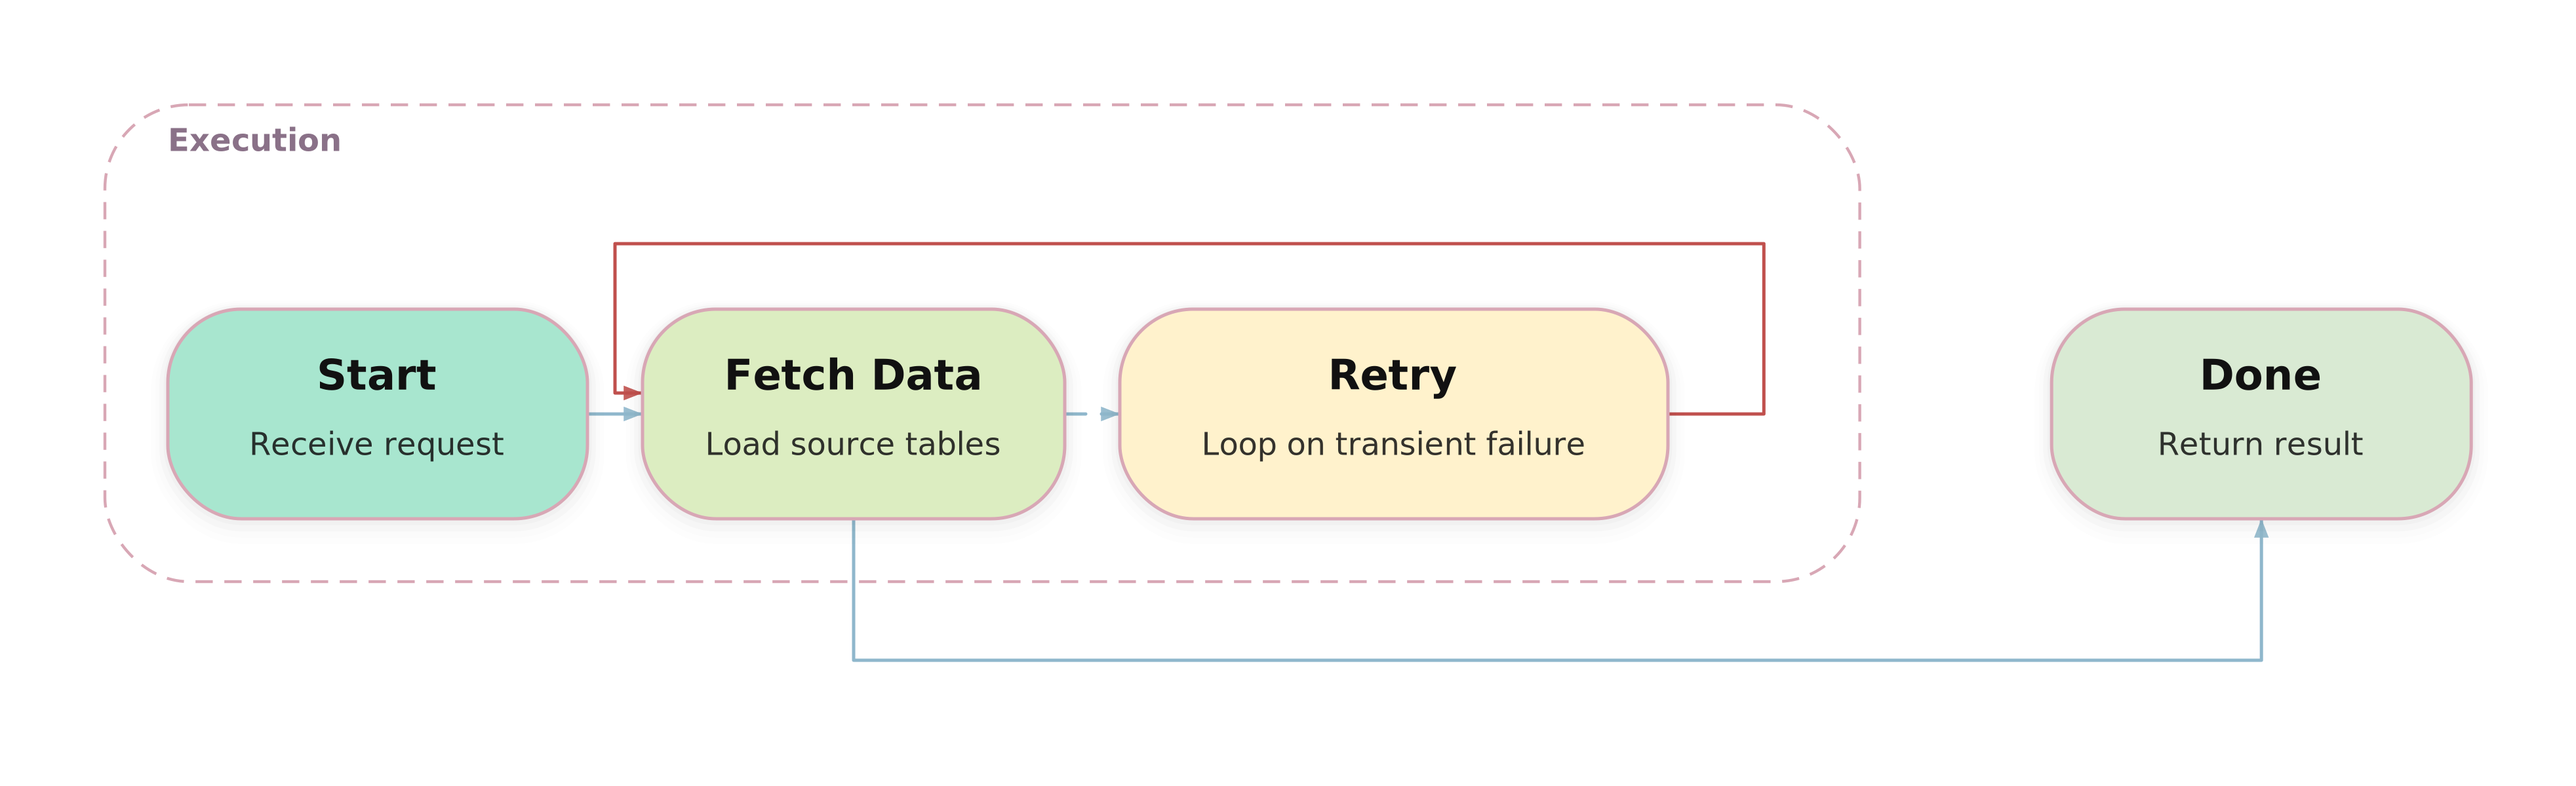
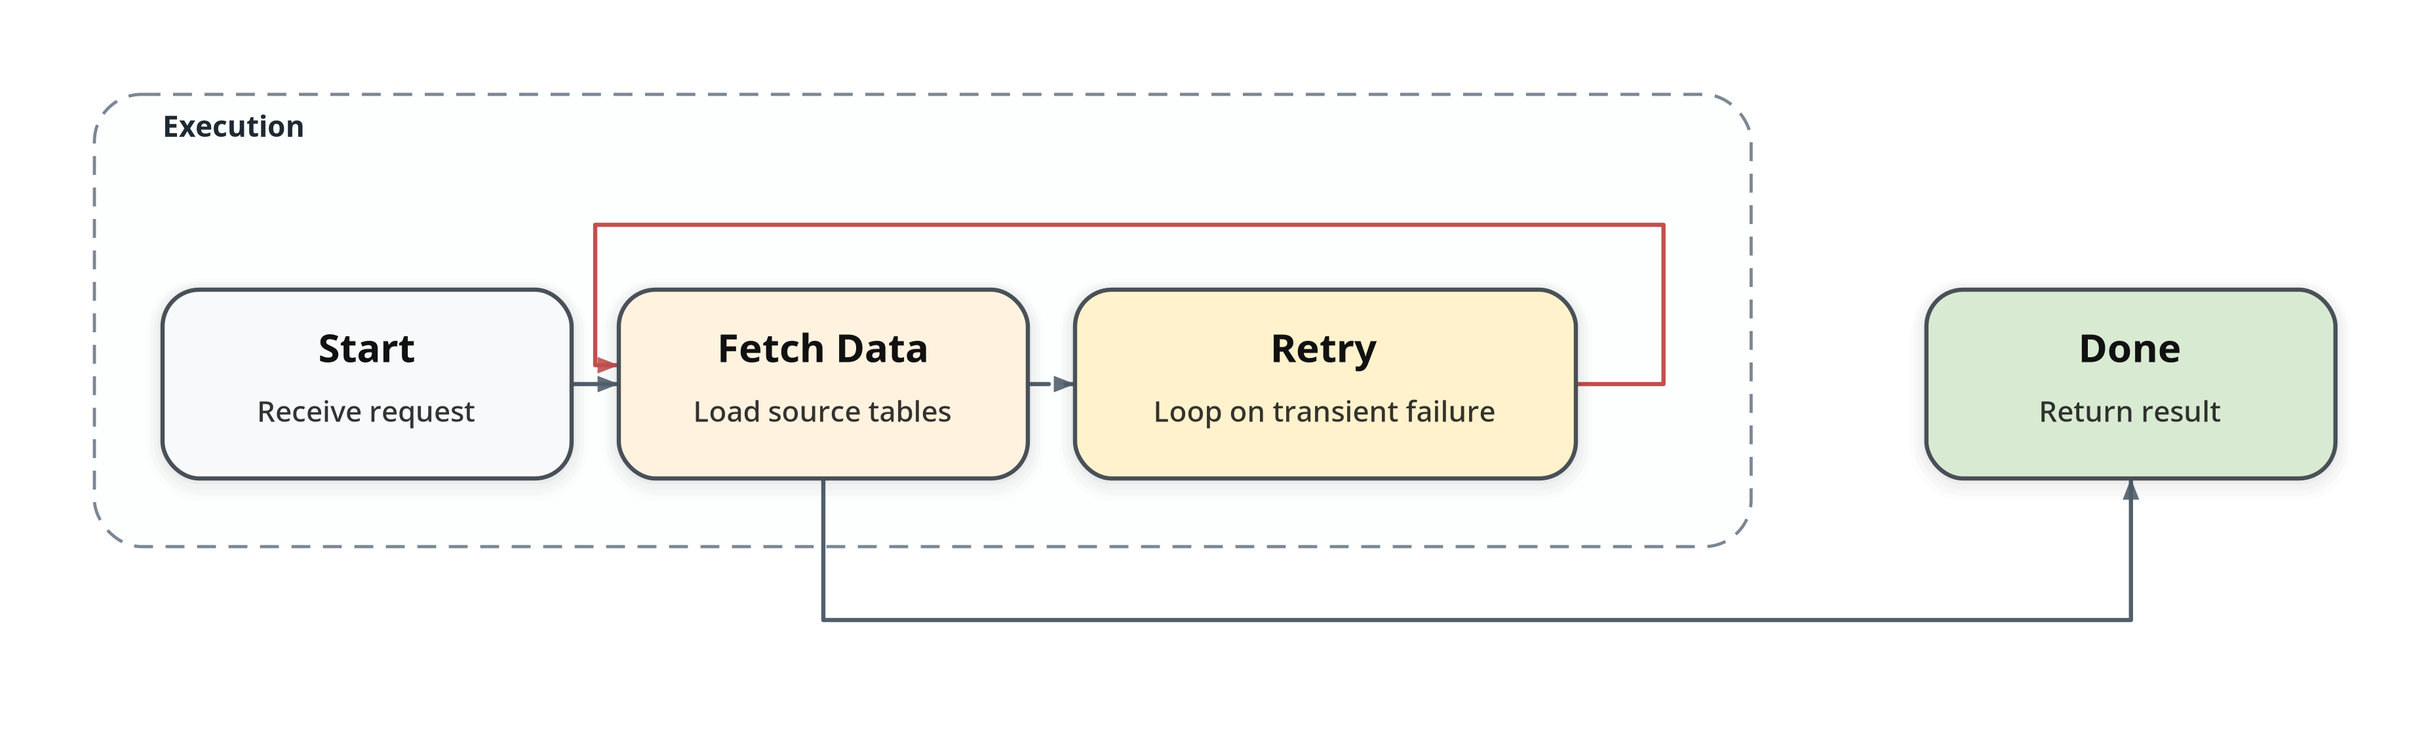
Add research theme and release v0.5.3

diff --git a/tests/test_rendering.py b/tests/test_rendering.py
@@ -25,8 +25,155 @@ SVG_NS = {"svg": "http://www.w3.org/2000/svg"}
 
 
 def _build_generate_pipeline_fixture() -> Pipeline:
-    namespace = runpy.run_path(str(Path(__file__).resolve().parents[1] / "test" / "generate_pipeline.py"))
-    return namespace["build_pipeline"]()
+    input_fill = "#F8F9FA"
+    input_stroke = "#495057"
+    split_fill = "#FFF3E0"
+    split_stroke = "#FB8C00"
+    h_fill = "#E8F5E9"
+    h_stroke = "#43A047"
+    c_fill = "#E3F2FD"
+    c_stroke = "#1E88E5"
+    m_fill = "#FCE4EC"
+    m_stroke = "#E53935"
+    fusion_fill = "#FAF6F0"
+    fusion_stroke = "#8A7A5C"
+    output_fill = "#F6F8FB"
+    output_stroke = "#263238"
+
+    theme = Theme.research()
+
+    return Pipeline(
+        nodes=(
+            Node("sar_input", "SAR Input", fill=input_fill, stroke=input_stroke),
+            Node("cloudy_hsi", "Cloudy HSI Input", fill=input_fill, stroke=input_stroke),
+            Node("sar_stem", "SAR ConvStem", fill=input_fill, stroke=input_stroke),
+            Node("hsi_stem", "Cloudy HSI ConvStem", fill=input_fill, stroke=input_stroke),
+            Node("feature_split", "Feature Split", "z0 -> c0 / m0", fill=split_fill, stroke=split_stroke),
+            Node("h_feature", "h Feature", "from HSI stem", fill=h_fill, stroke=h_stroke),
+            Node(
+                "main_blocks",
+                "Main Processing",
+                "N repeated dual-stream blocks",
+                fill="#F8FAFC",
+                stroke="#5C6773",
+                width=250.0,
+            ),
+            Node("candidate_decoder", "Candidate Decoder", "candidate", fill=c_fill, stroke=c_stroke),
+            Node("mask_decoder", "Mask Decoder", "mask", fill=m_fill, stroke=m_stroke),
+            Node(
+                "fusion",
+                "Fusion",
+                "out = (1 - m) * cloudy + m * candidate",
+                fill=fusion_fill,
+                stroke=fusion_stroke,
+                width=330.0,
+            ),
+            Node("output", "Cloud-free Output", fill=output_fill, stroke=output_stroke),
+        ),
+        edges=(
+            Edge("sar_to_stem", "sar_input", "sar_stem", color=input_stroke),
+            Edge("hsi_to_stem", "cloudy_hsi", "hsi_stem", color=input_stroke),
+            Edge("stem_to_split", "sar_stem", "feature_split", color=split_stroke),
+            Edge("stem_to_h", "hsi_stem", "h_feature", color=h_stroke),
+            Edge("split_to_main_c", "feature_split", "main_blocks", color=c_stroke),
+            Edge("split_to_main_m", "feature_split", "main_blocks", color=m_stroke, dashed=True),
+            Edge("h_to_main", "h_feature", "main_blocks", color=h_stroke, dashed=True),
+            Edge("main_to_candidate", "main_blocks", "candidate_decoder", color=c_stroke),
+            Edge("main_to_mask", "main_blocks", "mask_decoder", color=m_stroke),
+            Edge("candidate_to_fusion", "candidate_decoder", "fusion", color=c_stroke),
+            Edge("mask_to_fusion", "mask_decoder", "fusion", color=m_stroke),
+            Edge("skip_to_fusion", "cloudy_hsi", "fusion", color=fusion_stroke, dashed=True),
+            Edge("fusion_to_output", "fusion", "output", color=fusion_stroke),
+        ),
+        groups=(
+            Group(
+                "feature_stage",
+                "Input and Feature Extraction",
+                (
+                    "sar_input",
+                    "cloudy_hsi",
+                    "sar_stem",
+                    "hsi_stem",
+                    "feature_split",
+                    "h_feature",
+                ),
+                stroke=input_stroke,
+                fill="#F4F6F8",
+            ),
+            Group(
+                "candidate_stream",
+                "Candidate Branch",
+                ("candidate_decoder",),
+                stroke=c_stroke,
+                fill=c_fill,
+            ),
+            Group(
+                "mask_stream",
+                "Mask Branch",
+                ("mask_decoder",),
+                stroke=m_stroke,
+                fill=m_fill,
+            ),
+            Group(
+                "decoders",
+                "Independent Decoders",
+                ("candidate_decoder", "mask_decoder"),
+                stroke="#6C757D",
+                fill="#F8F9FA",
+            ),
+        ),
+        detail_panel=DetailPanel(
+            id="main_blocks_panel",
+            focus_node_id="main_blocks",
+            label="Main Processing: N Blocks",
+            nodes=(
+                Node("panel_h", "h Feature", "shared HSI guidance", fill=h_fill, stroke=h_stroke),
+                Node("panel_c_in", "c_k", "candidate stream input", fill=c_fill, stroke=c_stroke),
+                Node("panel_m_in", "m_k", "mask stream input", fill=m_fill, stroke=m_stroke),
+                Node("panel_nca_c", "NCA", "c with h", fill=c_fill, stroke=c_stroke),
+                Node("panel_nca_m", "NCA", "m with h", fill=m_fill, stroke=m_stroke),
+                Node("panel_l_ffn_c", "L-FFN", "local FFN", fill=c_fill, stroke=c_stroke),
+                Node("panel_l_ffn_m", "L-FFN", "local FFN", fill=m_fill, stroke=m_stroke),
+                Node("panel_gsa_c", "GSA", "c self-attention", fill=c_fill, stroke=c_stroke),
+                Node("panel_gsa_m", "GSA", "m self-attention", fill=m_fill, stroke=m_stroke),
+                Node("panel_g_ffn_c", "G-FFN", "global FFN", fill=c_fill, stroke=c_stroke),
+                Node("panel_g_ffn_m", "G-FFN", "global FFN", fill=m_fill, stroke=m_stroke),
+                Node("panel_c_out", "c_(k+1)", "to Candidate Decoder", fill=c_fill, stroke=c_stroke),
+                Node("panel_m_out", "m_(k+1)", "to Mask Decoder", fill=m_fill, stroke=m_stroke),
+            ),
+            edges=(
+                Edge("panel_c_to_nca", "panel_c_in", "panel_nca_c", color=c_stroke),
+                Edge("panel_m_to_nca", "panel_m_in", "panel_nca_m", color=m_stroke),
+                Edge("panel_h_to_nca_c", "panel_h", "panel_nca_c", color=h_stroke, dashed=True),
+                Edge("panel_h_to_nca_m", "panel_h", "panel_nca_m", color=h_stroke, dashed=True),
+                Edge("panel_nca_c_to_lffn", "panel_nca_c", "panel_l_ffn_c", color=c_stroke),
+                Edge("panel_nca_m_to_lffn", "panel_nca_m", "panel_l_ffn_m", color=m_stroke),
+                Edge("panel_lffn_c_to_gsa", "panel_l_ffn_c", "panel_gsa_c", color=c_stroke),
+                Edge("panel_lffn_m_to_gsa", "panel_l_ffn_m", "panel_gsa_m", color=m_stroke),
+                Edge("panel_gsa_c_to_gffn", "panel_gsa_c", "panel_g_ffn_c", color=c_stroke),
+                Edge("panel_gsa_m_to_gffn", "panel_gsa_m", "panel_g_ffn_m", color=m_stroke),
+                Edge("panel_gffn_c_to_out", "panel_g_ffn_c", "panel_c_out", color=c_stroke),
+                Edge("panel_gffn_m_to_out", "panel_g_ffn_m", "panel_m_out", color=m_stroke),
+            ),
+            groups=(
+                Group(
+                    "panel_candidate_stream",
+                    "Candidate (c) Stream",
+                    ("panel_c_in", "panel_nca_c", "panel_l_ffn_c", "panel_gsa_c", "panel_g_ffn_c", "panel_c_out"),
+                    stroke=c_stroke,
+                    fill=c_fill,
+                ),
+                Group(
+                    "panel_mask_stream",
+                    "Mask (m) Stream",
+                    ("panel_m_in", "panel_nca_m", "panel_l_ffn_m", "panel_gsa_m", "panel_g_ffn_m", "panel_m_out"),
+                    stroke=m_stroke,
+                    fill=m_fill,
+                ),
+            ),
+        ),
+        theme=theme,
+    )
 
 
 def _make_layout_node(
@@ -373,7 +520,7 @@ def test_svg_contains_expected_visual_elements() -> None:
 
 
 def test_built_in_themes_render_with_white_canvas_background() -> None:
-    for theme_factory in (Theme.soft_retro, Theme.retro, Theme.pastel, Theme.dark, Theme.cyberpunk, Theme.monochrome):
+    for theme_factory in (Theme.soft_retro, Theme.retro, Theme.research, Theme.dark, Theme.cyberpunk, Theme.monochrome):
         pipeline = Pipeline(nodes=[Node("n1", "Node")], edges=[], theme=theme_factory())
         root = ET.fromstring(pipeline.to_svg())
         background = root.find("./svg:rect", SVG_NS)
@@ -383,7 +530,7 @@ def test_built_in_themes_render_with_white_canvas_background() -> None:
 
 
 def test_theme_registry_exposes_named_theme_factories() -> None:
-    assert tuple(Theme.themes) == ("soft_retro", "retro", "pastel", "dark", "cyberpunk", "monochrome")
+    assert tuple(Theme.themes) == ("soft_retro", "retro", "research", "dark", "cyberpunk", "monochrome")
 
     first = Theme.themes.soft_retro()
     second = Theme.themes.soft_retro()
@@ -397,21 +544,24 @@ def test_theme_registry_exposes_named_theme_factories() -> None:
 
 
 def test_all_built_in_themes_render_group_strokes() -> None:
-    for theme_factory in (Theme.soft_retro, Theme.retro, Theme.pastel, Theme.dark, Theme.cyberpunk, Theme.monochrome):
+    for theme_factory in (Theme.soft_retro, Theme.retro, Theme.research, Theme.dark, Theme.cyberpunk, Theme.monochrome):
         assert theme_factory().group_stroke != "none"
 
 
 def test_only_retro_uses_group_accent_line() -> None:
     assert Theme.retro().show_group_accent_line is True
 
-    for theme_factory in (Theme.soft_retro, Theme.pastel, Theme.dark, Theme.cyberpunk, Theme.monochrome):
+    for theme_factory in (Theme.soft_retro, Theme.research, Theme.dark, Theme.cyberpunk, Theme.monochrome):
         assert theme_factory().show_group_accent_line is False
 
 
-def test_pastel_group_fill_defaults_to_white() -> None:
-    theme = Theme.pastel()
+def test_research_theme_matches_generate_pipeline_defaults() -> None:
+    theme = Theme.research()
 
-    assert theme.group_fill == "#FFFFFF"
+    assert theme.node_fill == "#F8F9FA"
+    assert theme.group_fill == "#EFF3F6"
+    assert theme.title_font_family == "'IBM Plex Sans', 'DejaVu Sans', sans-serif"
+    assert theme.route_track_gap == 18.0
 
 
 def test_node_text_color_auto_switches_between_dark_and_light() -> None:
@@ -437,7 +587,7 @@ def test_builtin_themes_use_automatic_node_palettes() -> None:
     base_nodes = [Node("first", "First"), Node("second", "Second")]
     base_edges = [Edge("e1", "first", "second")]
 
-    for theme_factory in (Theme.soft_retro, Theme.retro, Theme.pastel, Theme.dark, Theme.cyberpunk, Theme.monochrome):
+    for theme_factory in (Theme.soft_retro, Theme.retro, Theme.research, Theme.dark, Theme.cyberpunk, Theme.monochrome):
         theme = theme_factory()
         root = ET.fromstring(Pipeline(nodes=base_nodes, edges=base_edges, theme=theme).to_svg())
 
@@ -449,6 +599,9 @@ def test_builtin_themes_use_automatic_node_palettes() -> None:
 def test_built_in_themes_match_curated_palettes() -> None:
     assert Theme.soft_retro().color_palette == (
         "#F6C8B8", "#F8DCA8", "#CFE8C6", "#BFDCEC", "#D8C9F1",
+    )
+    assert Theme.research().color_palette == (
+        "#F8F9FA", "#FFF3E0", "#E8F5E9", "#E3F2FD", "#FCE4EC",
     )
     assert Theme.dark().color_palette == (
         "#171A26", "#2C3540", "#425059", "#657371", "#808C8B",
@@ -475,7 +628,7 @@ def test_soft_retro_preserves_retro_geometry_with_monospace_type() -> None:
 def test_non_retro_themes_have_distinct_visual_profiles() -> None:
     dark = Theme.dark()
     cyberpunk = Theme.cyberpunk()
-    pastel = Theme.pastel()
+    research = Theme.research()
     monochrome = Theme.monochrome()
 
     assert dark.corner_radius == 16.0
@@ -486,9 +639,10 @@ def test_non_retro_themes_have_distinct_visual_profiles() -> None:
     assert cyberpunk.stroke_width > dark.stroke_width
     assert "monospace" in cyberpunk.title_font_family.lower()
 
-    assert pastel.corner_radius > dark.corner_radius
-    assert pastel.group_corner_radius > pastel.corner_radius
-    assert pastel.shadow_blur > dark.shadow_blur * 0.5
+    assert research.corner_radius < dark.corner_radius
+    assert research.group_corner_radius > research.corner_radius
+    assert research.shadow_blur > 0.0
+    assert "ibm plex sans" in research.title_font_family.lower()
 
     assert monochrome.shadow_opacity == 0.0
     assert monochrome.corner_radius == 8.0

diff --git a/src/frameplot/theme.py b/src/frameplot/theme.py
@@ -63,13 +63,13 @@ class ResolvedThemeMetrics:
 class ThemeRegistry:
     soft_retro: Callable[[], "Theme"]
     retro: Callable[[], "Theme"]
-    pastel: Callable[[], "Theme"]
+    research: Callable[[], "Theme"]
     dark: Callable[[], "Theme"]
     cyberpunk: Callable[[], "Theme"]
     monochrome: Callable[[], "Theme"]
 
     def __iter__(self):
-        return iter(("soft_retro", "retro", "pastel", "dark", "cyberpunk", "monochrome"))
+        return iter(("soft_retro", "retro", "research", "dark", "cyberpunk", "monochrome"))
 
     def __getitem__(self, name: str) -> Callable[[], "Theme"]:
         return getattr(self, name)
@@ -138,7 +138,7 @@ class Theme:
 
     @classmethod
     def soft_retro(cls) -> 'Theme':
-        """A pastel-tinted retro theme with monospace lettering on a white canvas."""
+        """A soft-tinted retro theme with monospace lettering on a white canvas."""
         theme = cls.retro()
         theme.background_color = "#FFFFFF"
         theme.node_fill = "#FAF3E7"
@@ -270,37 +270,47 @@ class Theme:
         )
 
     @classmethod
-    def pastel(cls) -> 'Theme':
-        """A white-canvas soft editorial theme with pill shapes and airy shadows."""
+    def research(cls) -> 'Theme':
+        """A paper-ready academic theme with restrained slate spacing and muted accents."""
         return cls(
             background_color="#FFFFFF",
-            node_fill="#FFFFFF",
-            node_stroke="#D8A7B5",
-            node_text_color="#5A5568",
-            edge_color="#8FB7CC",
-            group_stroke="#D8A7B5",
-            group_fill="#FFFFFF",
-            group_label_color="#8A7188",
-            title_font_family="'DejaVu Sans', 'Trebuchet MS', 'Segoe UI', sans-serif",
+            node_fill="#F8F9FA",
+            node_stroke="#495057",
+            node_text_color="#1F2933",
+            edge_color="#52606D",
+            group_stroke="#7B8794",
+            group_fill="#EFF3F6",
+            group_label_color="#1F2933",
+            title_font_family="'IBM Plex Sans', 'DejaVu Sans', sans-serif",
+            title_font_size=15.0,
+            subtitle_font_size=11.0,
             title_font_weight=650,
-            subtitle_font_weight=500,
-            detail_panel_fill="#FFFCFB",
-            detail_panel_stroke="#CFE3EC",
-            detail_panel_title_color="#8A7188",
-            detail_panel_guide_color="#E9F3F7",
-            detail_panel_fill_opacity=0.98,
-            detail_panel_corner_radius=32.0,
-            group_fill_opacity=0.94,
-            stroke_width=1.25,
-            group_stroke_width=1.1,
-            corner_radius=28.0,
-            group_corner_radius=32.0,
+            subtitle_font_weight=450,
+            outer_margin=36.0,
+            node_padding_x=18.0,
+            node_padding_y=14.0,
+            inter_text_gap=7.0,
+            rank_gap=88.0,
+            node_gap=40.0,
+            component_gap=48.0,
+            group_padding=26.0,
+            max_text_width=240.0,
+            min_node_width=156.0,
+            min_node_height=72.0,
+            corner_radius=14.0,
+            group_corner_radius=18.0,
+            stroke_width=1.6,
+            group_stroke_width=1.2,
+            group_fill_opacity=0.16,
+            arrow_size=9.0,
+            route_track_gap=18.0,
+            back_edge_gap=28.0,
             shadow_blur=8.0,
-            shadow_opacity=0.07,
-            shadow_offset_y=4.0,
+            shadow_opacity=0.08,
+            shadow_offset_y=3.0,
             show_group_accent_line=False,
             color_palette=(
-                "#A8E6CF", "#DCEDC1", "#FFE8D4", "#FFAAA5", "#FF8BA6",
+                "#F8F9FA", "#FFF3E0", "#E8F5E9", "#E3F2FD", "#FCE4EC",
             ),
         )
 
@@ -342,7 +352,7 @@ class Theme:
 Theme.themes = ThemeRegistry(
     soft_retro=Theme.soft_retro,
     retro=Theme.retro,
-    pastel=Theme.pastel,
+    research=Theme.research,
     dark=Theme.dark,
     cyberpunk=Theme.cyberpunk,
     monochrome=Theme.monochrome,

diff --git a/examples/hero_pipeline.py b/examples/hero_pipeline.py
@@ -24,7 +24,7 @@ class ThemeHero:
 THEME_HEROES = (
     ThemeHero("soft_retro", "Soft Retro", "soft-retro"),
     ThemeHero("retro", "Retro", "retro"),
-    ThemeHero("pastel", "Pastel", "pastel"),
+    ThemeHero("research", "Research", "research"),
     ThemeHero("dark", "Dark", "dark"),
     ThemeHero("cyberpunk", "Cyberpunk", "cyberpunk"),
     ThemeHero("monochrome", "Monochrome", "monochrome"),

diff --git a/examples/quickstart.py b/examples/quickstart.py
@@ -16,7 +16,7 @@ pipeline = Pipeline(
     groups=[
         Group("g1", "Execution", ["start", "fetch", "retry"], edge_ids=["e2"]),
     ],
-    theme=Theme.pastel()
+    theme=Theme.research()
 )
 
 pipeline.save_svg("docs/assets/quickstart.svg")

diff --git a/README.md b/README.md
@@ -21,9 +21,9 @@ All built-in presets stay on a white canvas. The same hero pipeline is rendered 
 | --- | --- |
 | ![Soft Retro theme hero](docs/assets/frameplot-hero-soft-retro.png) | ![Retro theme hero](docs/assets/frameplot-hero-retro.png) |
 
-| Pastel | Dark |
+| Research | Dark |
 | --- | --- |
-| ![Pastel theme hero](docs/assets/frameplot-hero-pastel.png) | ![Dark theme hero](docs/assets/frameplot-hero-dark.png) |
+| ![Research theme hero](docs/assets/frameplot-hero-research.png) | ![Dark theme hero](docs/assets/frameplot-hero-dark.png) |
 
 | Cyberpunk | Monochrome |
 | --- | --- |

diff --git a/README.ko.md b/README.ko.md
@@ -21,9 +21,9 @@
 | --- | --- |
 | ![Soft Retro theme hero](docs/assets/frameplot-hero-soft-retro.png) | ![Retro theme hero](docs/assets/frameplot-hero-retro.png) |
 
-| Pastel | Dark |
+| Research | Dark |
 | --- | --- |
-| ![Pastel theme hero](docs/assets/frameplot-hero-pastel.png) | ![Dark theme hero](docs/assets/frameplot-hero-dark.png) |
+| ![Research theme hero](docs/assets/frameplot-hero-research.png) | ![Dark theme hero](docs/assets/frameplot-hero-dark.png) |
 
 | Cyberpunk | Monochrome |
 | --- | --- |
